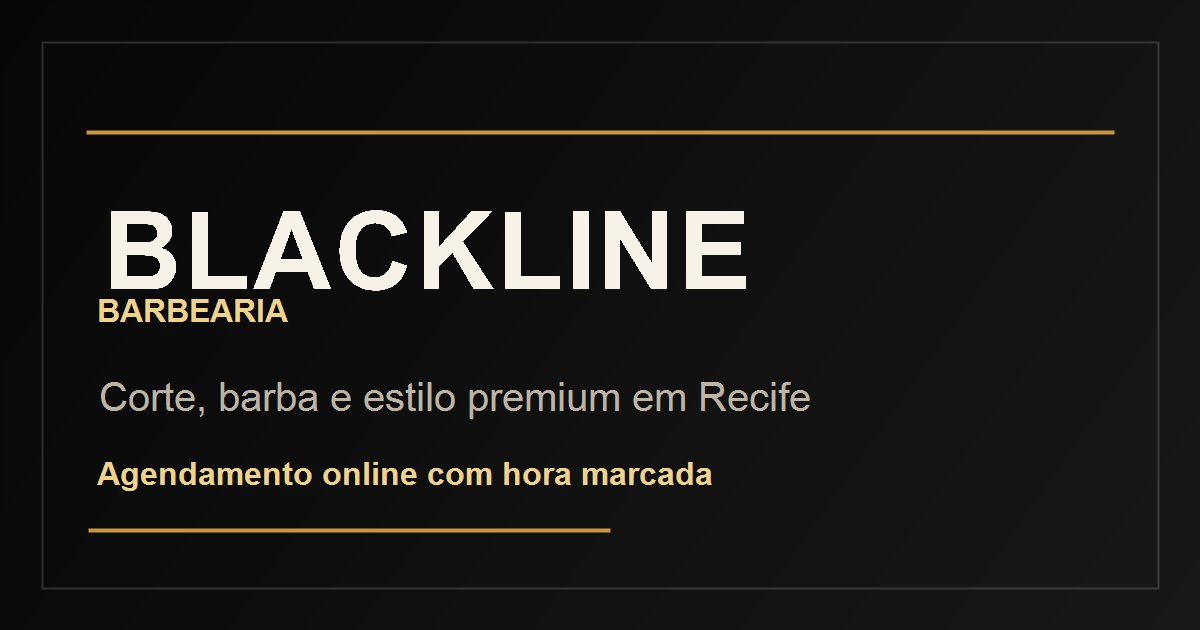
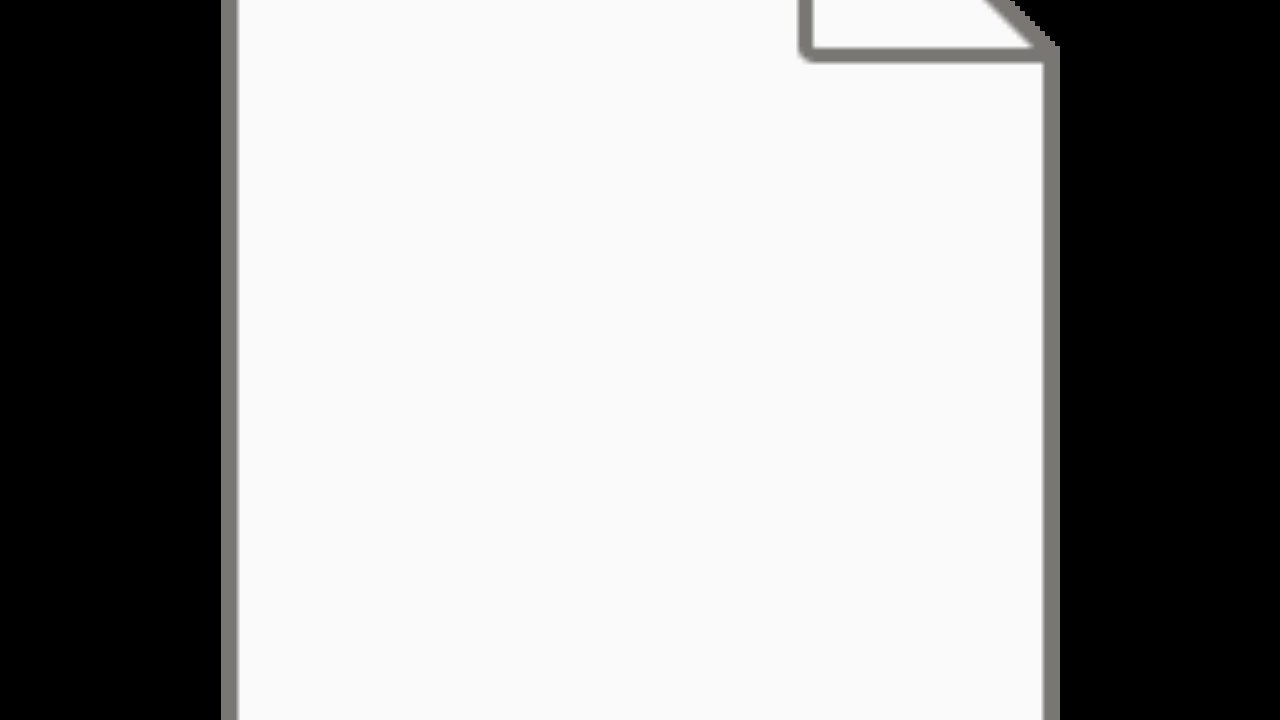
consertando o fall back, estava com problemas com o video no mobile

diff --git a/frontend/style.css b/frontend/style.css
@@ -2322,17 +2322,15 @@ textarea:focus {
   }
 }
 
-@media (max-width: 720px),
-  (prefers-reduced-motion: reduce),
-  (prefers-reduced-data: reduce) {
- /*  .hero-video {
+@media (max-width: 720px) and (prefers-reduced-motion: reduce),
+  (max-width: 720px) and (prefers-reduced-data: reduce) {
+  .hero-video {
     display: none;
-  } */
+  }
   .hero-fallback {
     opacity: 1;
   }
 }
-
 /* Booking section layout stability */
 .booking-section {
   --booking-section-max: 1280px;

diff --git a/frontend/index.html b/frontend/index.html
@@ -57,13 +57,13 @@
        loop 
        playsinline 
        preload="metadata" 
-       poster="video_header.jpg" id="hero-video">
-       
+       poster="frame_8s.jpg" id="hero-video">
+
         <source id="hero-video-source" src="video_header.mp4" type="video/mp4" />
 
       </video>
 
-      <div class="hero-fallback" id="hero-fallback" style="background-image:url('video_header.jpg')"></div>
+      <div class="hero-fallback" id="hero-fallback" style="background-image:url('frame_8s.jpg')"></div>
       <div class="hero-overlay"></div>
       <div class="hero-content container">
         <p class="eyebrow">Blackline Barbearia</p>